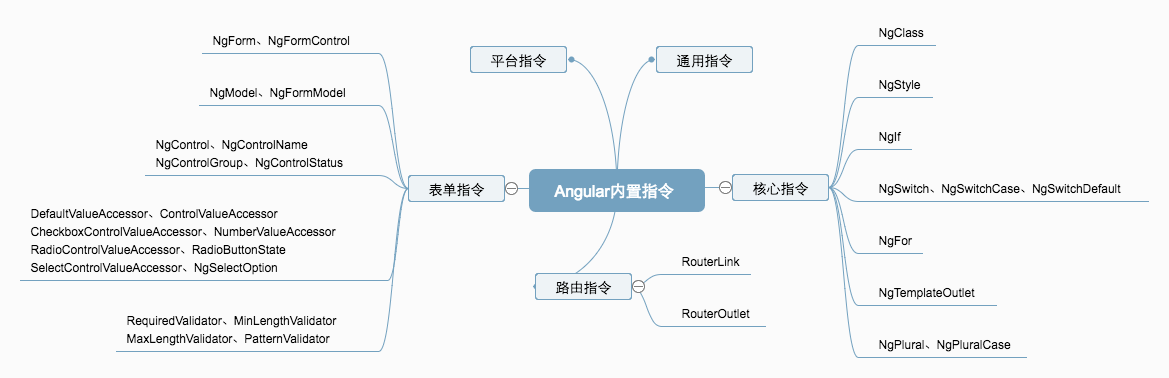
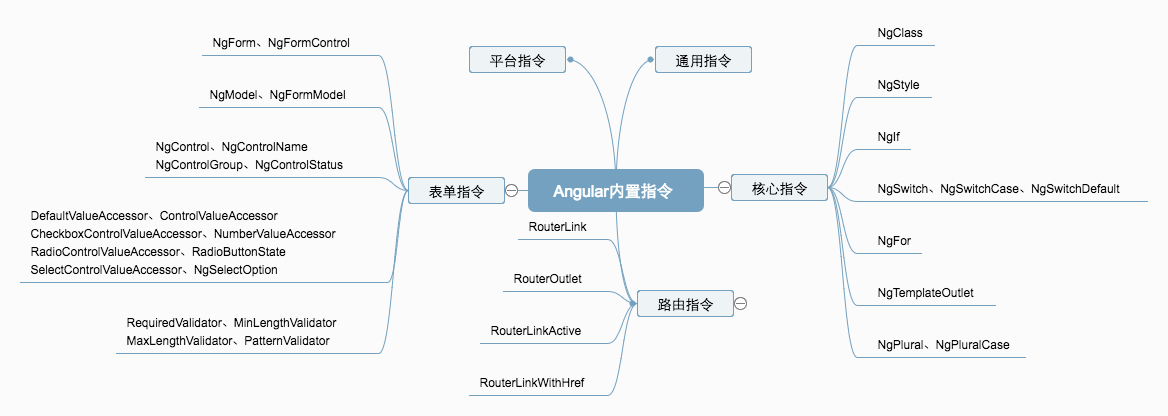
调整路由指令部分

diff --git a/chapters/2.4.md b/chapters/2.4.md
@@ -50,7 +50,7 @@ Angular中指令的使用方式与在HTML元素中使用属性方式相似，本
 
 ### 4.1.1 指令分类
 
-在Angular2 中包含以下三种类型的指令：
+在Angular中包含以下三种类型的指令：
 
 #### 属性指令
 
@@ -449,39 +449,14 @@ import {PLATFORM_DIRECTIVES} from 'angular/core';
 
 路由指令包含下列指令
 
-* `RouterLink`指令
+* `RouterLink`
+* `RouterOutlet`
+* `RouterLinkActive`
+* `RouterLinkWithHref`
 
-	`RouterLink`指令可以链接到应用的特定部分。
-		
-	以下面路由配置为例
-		
-	```
-  @RoutesConfig([
-    { path: '/user', component: UserCmp, as: 'User' }
-  ]);
-  class MyComp {}
-	```
-		
-	当需要链接到`User`路由对应的组件时，可以如下使用
-		
-	```
-	<a [routerLink]="['./User']">link to user component</a>
-	```
-		
-	`RouterLink`指令的值是一个数组，数组中元素是一个路径和该层级路由的参数。例如，`['/Team', {teamId: 1}, 'User', {userId: 2}]`意味着想要构造到`Team`的链接，参数为`{teamId: 1}`，同时有'User'子路由，参数为`{userId: 2}`。
-	
-	第一个路由名称应当加上`/`, `./`或者 `../`这样的前缀。如果路由以`/`开始，路由器会从当前应用的根路径查询目标地址。如果路由以`./`开始，路由器会从当前组件的子节点查询目标地址。如果片段以`../`开始，路由会从当前路径的上一层查找。
-	
-* `RouterOutlet`指令
+其中，`RouterOutlet`指令是一个占位符，路由跳转时，Angular会查找当前匹配的组件并将组件插入到`RouterOutlet`中；`RouterLinkActive`指令在当前路径与当前元素设置的链接匹配时为元素添加CSS样式；`RouterLink`和`RouterLinkWithHref`指令使得应用可以链接到特定组件，二者不同之处在于`RouterLink`指令在`<a>`元素以外的元素中使用，`RouterLinkWithHref`指令在`<a>`元素中使用。
 
-	`RouterOutlet`指令是一个占位符，Angular会根据应用路由，使用匹配的组件填充它。
-		
-	`RouterOutlet`指令指令使用方式如下，路由跳转时，路由器会查找当前匹配的组件，并将组件显示到`RouterOutlet`中。
-		
-	```
-	<!-- Routed views go here -->
-	<router-outlet></router-outlet>
-	```
+在本书第七章路由章节，会对上述路由指令用法具体讲解，这里不再赘述。
 		
 	
 ## 4.2 自定义属性指令
